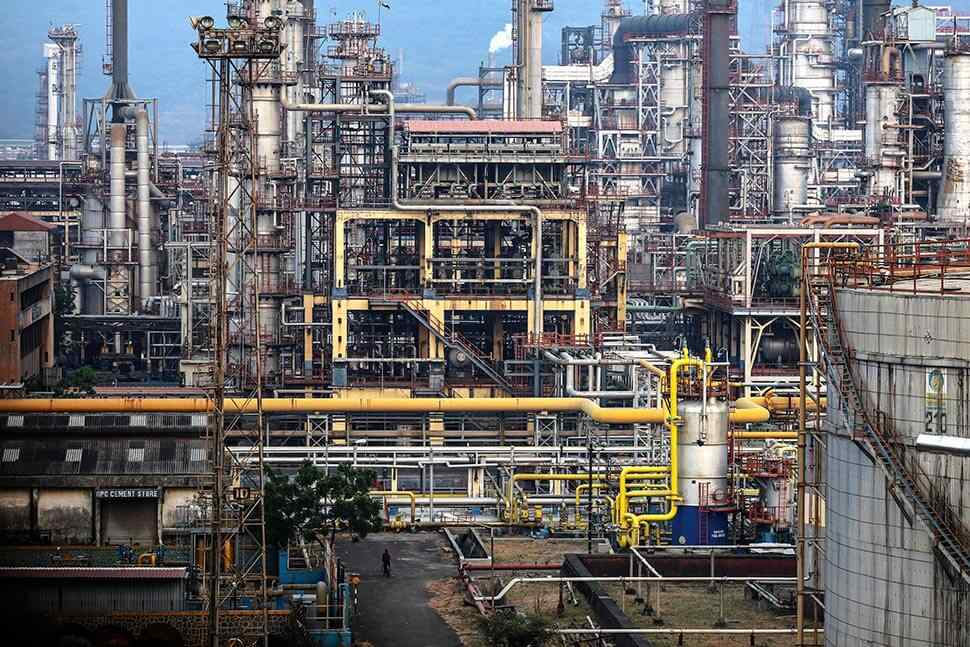
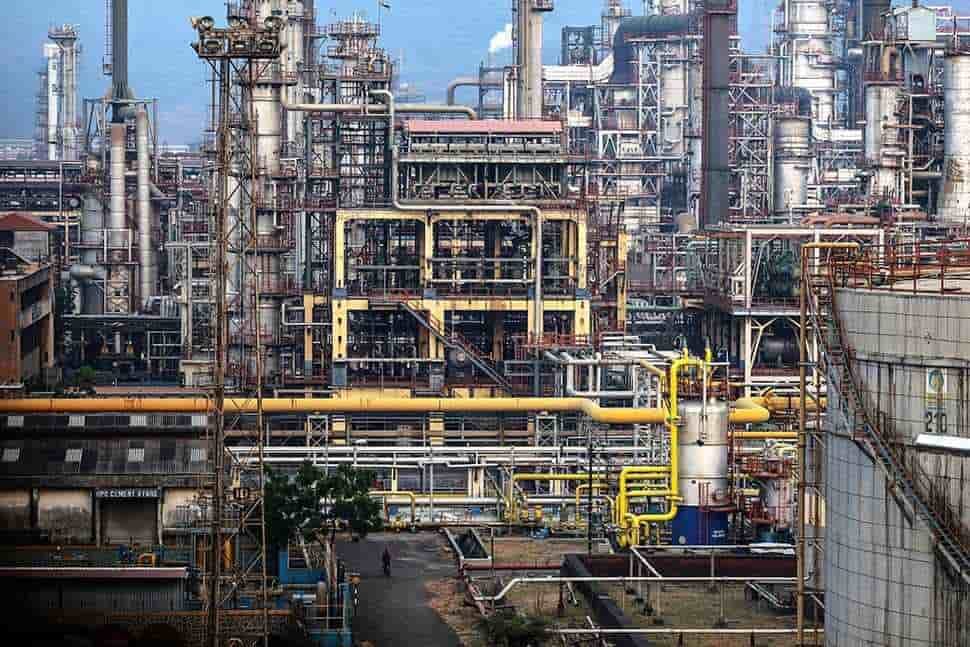
intense optimaization

diff --git a/src/data/projectsData.js b/src/data/projectsData.js
@@ -19,7 +19,7 @@ export const projects = [
     types: ['1', '2'],
     location: 'Mumbai',
     link: '/projects/mumbai-metro-dahisar-mira',
-    image: '/projects/MumbaiMetro2.jpeg',
+    image: '/projects/MumbaiMetro2.jpg',
   },
   {
     id: 3,
@@ -140,7 +140,7 @@ export const projects = [
     types: ['1'],
     location: 'Meerat,Uttar Pradesh',
     link: '/projects/MumbaiDelhiExpressway',
-    image: '/projects/mumbaiDelhiExpressway.jpeg',
+    image: '/projects/mumbaiDelhiExpressway.jpg',
   },
   {
     id: 14,
@@ -162,7 +162,7 @@ export const projects = [
     types: ['1'],
     location: 'New Delhi',
     link: '/projects/delhi-vadodara',
-    image: '/projects/Delhi-meerut-expressway.jpeg',
+    image: '/projects/Delhi-meerut-expressway.jpg',
   },
   {
     id: 16,
@@ -184,7 +184,7 @@ export const projects = [
     types: ['1'],
     location: 'Goa',
     link: '/projects/goa-shipyard',
-    image: '/projects/GoaShipyard.jpeg',
+    image: '/projects/GoaShipyard.jpg',
   },
   {
     id: 17,
@@ -228,7 +228,7 @@ export const projects = [
     types: ['1'],
     location: 'Lucknow, Uttar Pradesh',
     link: '/projects/kalyan-singh-cancer-institute',
-    image: '/projects/KalyanSinghCancerInstitute.jpeg',
+    image: '/projects/KalyanSinghCancerInstitute.jpg',
   },
   {
     id: 20,
@@ -239,7 +239,7 @@ export const projects = [
     types: ['3'],
     location: 'Rajgir, Bihar',
     link: '/projects/buddha-smriti',
-    image: '/projects/Buddha-Smriti-Stupa.png',
+    image: '/projects/Buddha-Smriti-Stupa.jpg',
   },
   {
     id: 21,
@@ -261,7 +261,7 @@ export const projects = [
     types: ['3'],
     location: 'Palakkad, Kerala',
     link: '/projects/iit-palakkad',
-    image: '/projects/iit-palakkad.jpeg',
+    image: '/projects/iit-palakkad.jpg',
   },
   {
     id: 23,
@@ -294,7 +294,7 @@ export const projects = [
     types: ['1', '2'],
     location: 'Sonipat, Haryana',
     link: '/projects/maruti-suzuki-sonipat',
-    image: '/projects/maruti-suzuki-plant-sonipat.jpeg',
+    image: '/projects/maruti-suzuki-plant-sonipat.jpg',
   },
   {
     id: 24,

diff --git a/src/app/(sitemap)/sectors/roads-highways/page.tsx b/src/app/(sitemap)/sectors/roads-highways/page.tsx
@@ -26,7 +26,7 @@ const Page = () => {
       name: ' Mumbai Delhi Expressway package 2',
       location: 'Uttar Pradesh',
       link: '/projects/MumbaiDelhiExpressway',
-      image: '/projects/mumbaiDelhiExpressway.jpeg',
+      image: '/projects/mumbaiDelhiExpressway.jpg',
     },
     {
       name: ' Kartavya Path - Redevelopment as part of central Vista Redevelopment project',
@@ -38,7 +38,7 @@ const Page = () => {
       name: ' Delhi-Vadodara Greenfield Alignment, NH148N - Package 20',
       location: 'New Delhi',
       link: '/projects/delhi-vadodara',
-      image: '/projects/Delhi-meerut-expressway.jpeg',
+      image: '/projects/Delhi-meerut-expressway.jpg',
     },
     {
       name: ' Development of Purvanchal Expressway (Package VII) Mojrapur (Azamgarh) to Bijaura Ghazipur',

diff --git a/src/data/mainPageProjects.js b/src/data/mainPageProjects.js
@@ -29,7 +29,7 @@ export const MainPageProjects = [
     client: '',
     sector: 'Roads & Highways',
     service: 'Techno-Commercial Audit',
-    image: '/projects/mumbaiDelhiExpressway.jpeg', // replace with the actual image path
+    image: '/projects/mumbaiDelhiExpressway.jpg', // replace with the actual image path
     link: '/projects/featured-projects/MumbaiDelhiExpressway',
   },
   {
@@ -63,7 +63,7 @@ export const MainPageProjects = [
     client: '',
     sector: 'Roads & Highways ',
     service: 'Techno-Commercial Audit',
-    image: '/projects/Delhi-meerut-expressway.jpeg', // replace with the actual image path
+    image: '/projects/Delhi-meerut-expressway.jpg', // replace with the actual image path
     link: '/projects/featured-projects/delhi-vadodara',
   },
   {

diff --git a/src/app/(sitemap)/our-services/techno-commercial-audit/page.tsx b/src/app/(sitemap)/our-services/techno-commercial-audit/page.tsx
@@ -34,14 +34,14 @@ const Page = () => {
       name: 'Maruti Suzuki Plant India Limited Sonipat',
       location: 'Haryana',
       link: '/projects/maruti-suzuki-sonipat',
-      image: '/projects/maruti-suzuki-plant-sonipat.jpeg',
+      image: '/projects/maruti-suzuki-plant-sonipat.jpg',
     },
     {
       name: 'Buddha Smriti Stupa & Buddha Sangrahlaya',
 
       location: 'Bihar',
       link: '/projects/buddha-smriti',
-      image: '/projects/Buddha-Smriti-Stupa.png',
+      image: '/projects/Buddha-Smriti-Stupa.jpg',
     },
     {
       name: 'Indian Institute of Technology Hyderabad',

diff --git a/src/app/(sitemap)/services/techno-commercial-audit/page.tsx b/src/app/(sitemap)/services/techno-commercial-audit/page.tsx
@@ -34,14 +34,14 @@ const Page = () => {
       name: 'Maruti Suzuki Plant India Limited Sonipat',
       location: 'Haryana',
       link: '/projects/maruti-suzuki-sonipat',
-      image: '/projects/maruti-suzuki-plant-sonipat.jpeg',
+      image: '/projects/maruti-suzuki-plant-sonipat.jpg',
     },
     {
       name: 'Buddha Smriti Stupa & Buddha Sangrahlaya',
 
       location: 'Bihar',
       link: '/projects/buddha-smriti',
-      image: '/projects/Buddha-Smriti-Stupa.png',
+      image: '/projects/Buddha-Smriti-Stupa.jpg',
     },
     {
       name: 'Indian Institute of Technology Hyderabad',

diff --git a/src/app/(sitemap)/sectors/institutional/page.tsx b/src/app/(sitemap)/sectors/institutional/page.tsx
@@ -44,13 +44,13 @@ const Page = () => {
       name: 'Kalyan Singh Cancer Institute,Lucknow',
       location: 'Uttar Pradesh',
       link: '/projects/kalyan-singh-cancer-institute',
-      image: '/projects/KalyanSinghCancerInstitute.jpeg',
+      image: '/projects/KalyanSinghCancerInstitute.jpg',
     },
     {
       name: 'Buddha Smriti Stupa & Buddha Sangrahlaya',
       location: 'Bihar',
       link: '/projects/buddha-smriti',
-      image: '/projects/Buddha-Smriti-Stupa.png',
+      image: '/projects/Buddha-Smriti-Stupa.jpg',
     },
   ];
   return (

diff --git a/src/app/(sitemap)/projects/(all-projects)/(metro-rail)/mumbai-metro-dahisar-mira/page.tsx b/src/app/(sitemap)/projects/(all-projects)/(metro-rail)/mumbai-metro-dahisar-mira/page.tsx
@@ -39,10 +39,10 @@ const Page = () => {
       </div>
       <div className='relative '>
         <Image
-          src={`/projects/MumbaiMetro2.jpeg`}
+          src={`/projects/MumbaiMetro2.jpg`}
           width={2046}
           height={768}
-          alt='MumbaiMetroThaneBhiwandiKalyan.jpeg'
+          alt='MumbaiMetroThaneBhiwandiKalyan.jpg'
           className='object-contain'
         />
         <div className='absolute inset-0 flex flex-col md:justify-center bg-opacity-50 bg-black text-white'>

diff --git a/src/app/(sitemap)/projects/(all-projects)/(metro-rail)/mumbai-metro-line-5/page.tsx b/src/app/(sitemap)/projects/(all-projects)/(metro-rail)/mumbai-metro-line-5/page.tsx
@@ -42,7 +42,7 @@ const Page = () => {
           src={`/projects/MumbaiMetroThaneBhiwandiKalyan.jpg`}
           width={2046}
           height={768}
-          alt='MumbaiMetroThaneBhiwandiKalyan.jpeg'
+          alt='MumbaiMetroThaneBhiwandiKalyan.jpg'
           className='object-contain'
         />
         <div className='absolute inset-0 flex flex-col md:justify-center bg-opacity-50 bg-black text-white'>

diff --git a/src/app/(sitemap)/sectors/industrial/page.tsx b/src/app/(sitemap)/sectors/industrial/page.tsx
@@ -28,7 +28,7 @@ const Page = () => {
       name: 'Maruti Suzuki Plant India Limited Sonipat',
       location: 'Haryana',
       link: '/projects/maruti-suzuki-sonipat',
-      image: '/projects/maruti-suzuki-plant-sonipat.jpeg',
+      image: '/projects/maruti-suzuki-plant-sonipat.jpg',
     },
     {
       name: 'Maruti Suzuki Plant India Limited Gujrat',

diff --git a/src/app/(sitemap)/projects/(all-projects)/(commercial)/al-maktoum/page.tsx b/src/app/(sitemap)/projects/(all-projects)/(commercial)/al-maktoum/page.tsx
@@ -40,7 +40,7 @@ const Page = () => {
           src={`/projects/Al-Maktum.jpg`}
           width={2046}
           height={768}
-          alt='maruti suzuki'
+          alt='Al-Maktum'
           className='object-contain'
         />
         <div className='absolute inset-0 flex flex-col md:justify-center bg-opacity-50 bg-black text-white'>

diff --git a/src/app/(sitemap)/our-services/quantity-survey/page.tsx b/src/app/(sitemap)/our-services/quantity-survey/page.tsx
@@ -46,7 +46,7 @@ const Page = () => {
       name: ' Delhi-Vadodara Greenfield Alignment, NH148N',
       location: 'New Delhi',
       link: '/projects/delhi-vadodara',
-      image: '/projects/Delhi-meerut-expressway.jpeg',
+      image: '/projects/Delhi-meerut-expressway.jpg',
     },
     {
       name: 'Manohar International Airport',

diff --git a/src/app/(sitemap)/services/quantity-survey/page.tsx b/src/app/(sitemap)/services/quantity-survey/page.tsx
@@ -46,7 +46,7 @@ const Page = () => {
       name: ' Delhi-Vadodara Greenfield Alignment, NH148N',
       location: 'New Delhi',
       link: '/projects/delhi-vadodara',
-      image: '/projects/Delhi-meerut-expressway.jpeg',
+      image: '/projects/Delhi-meerut-expressway.jpg',
     },
     {
       name: 'Manohar International Airport',
